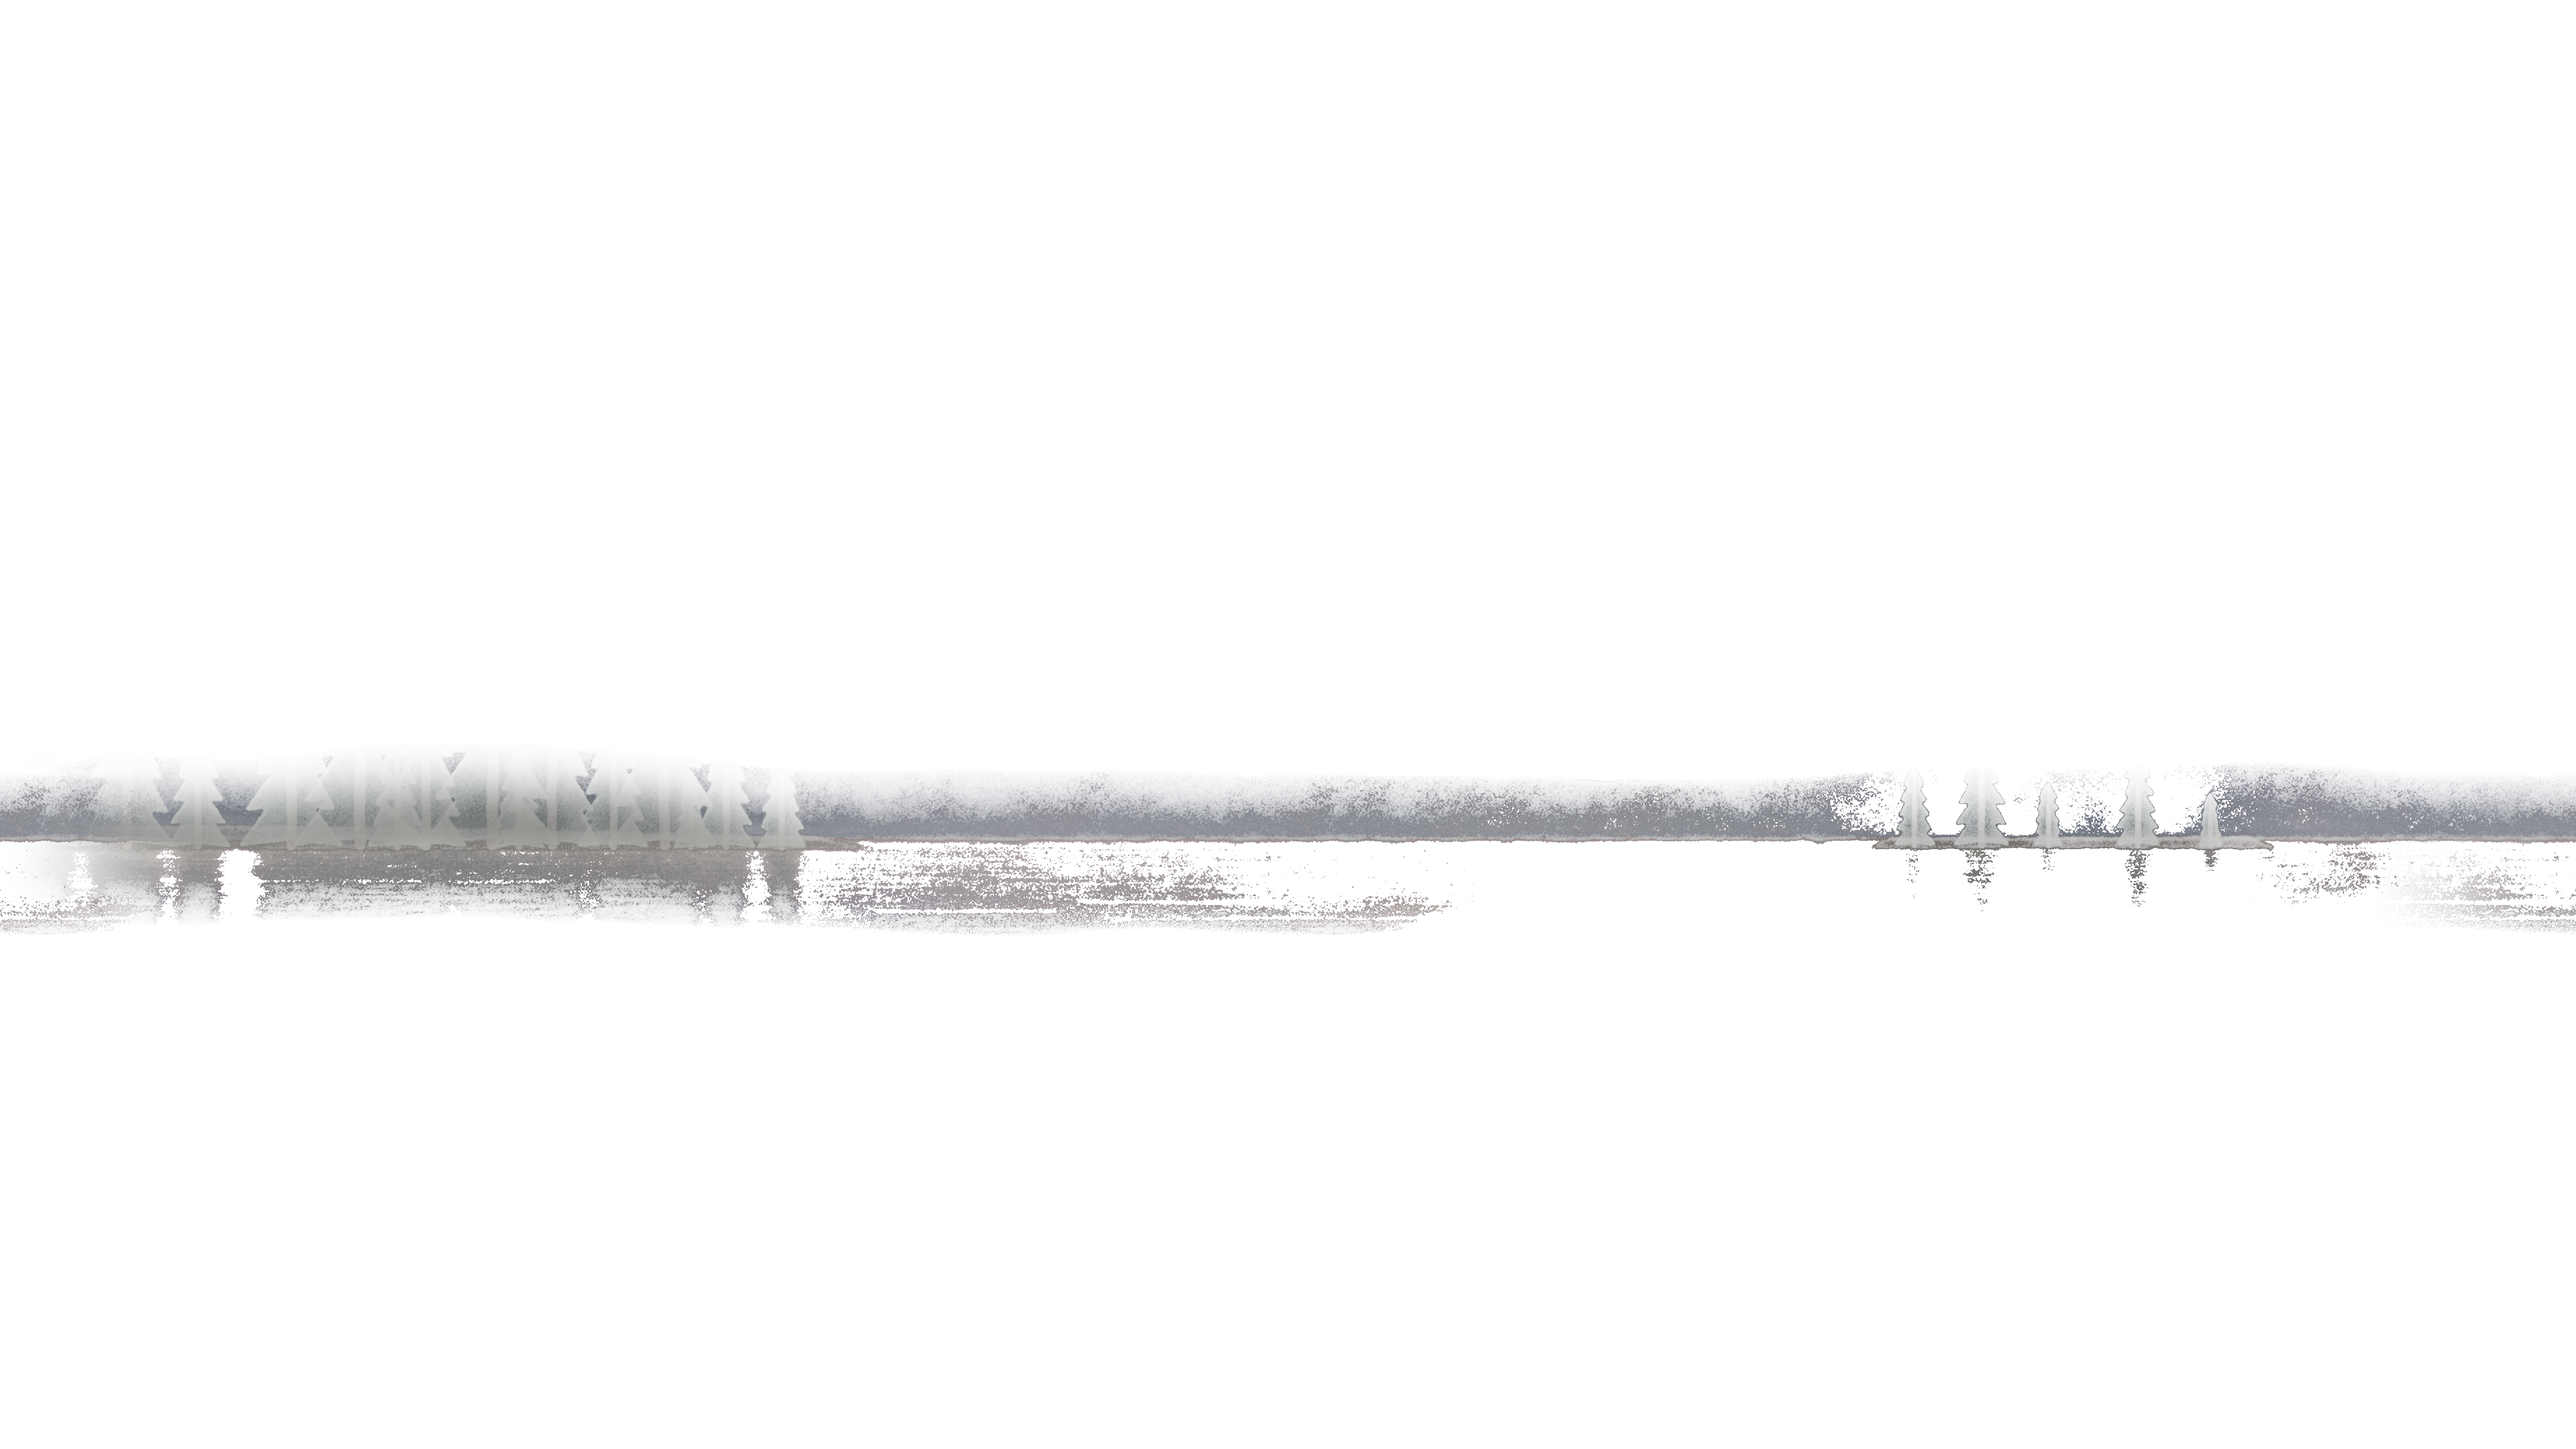
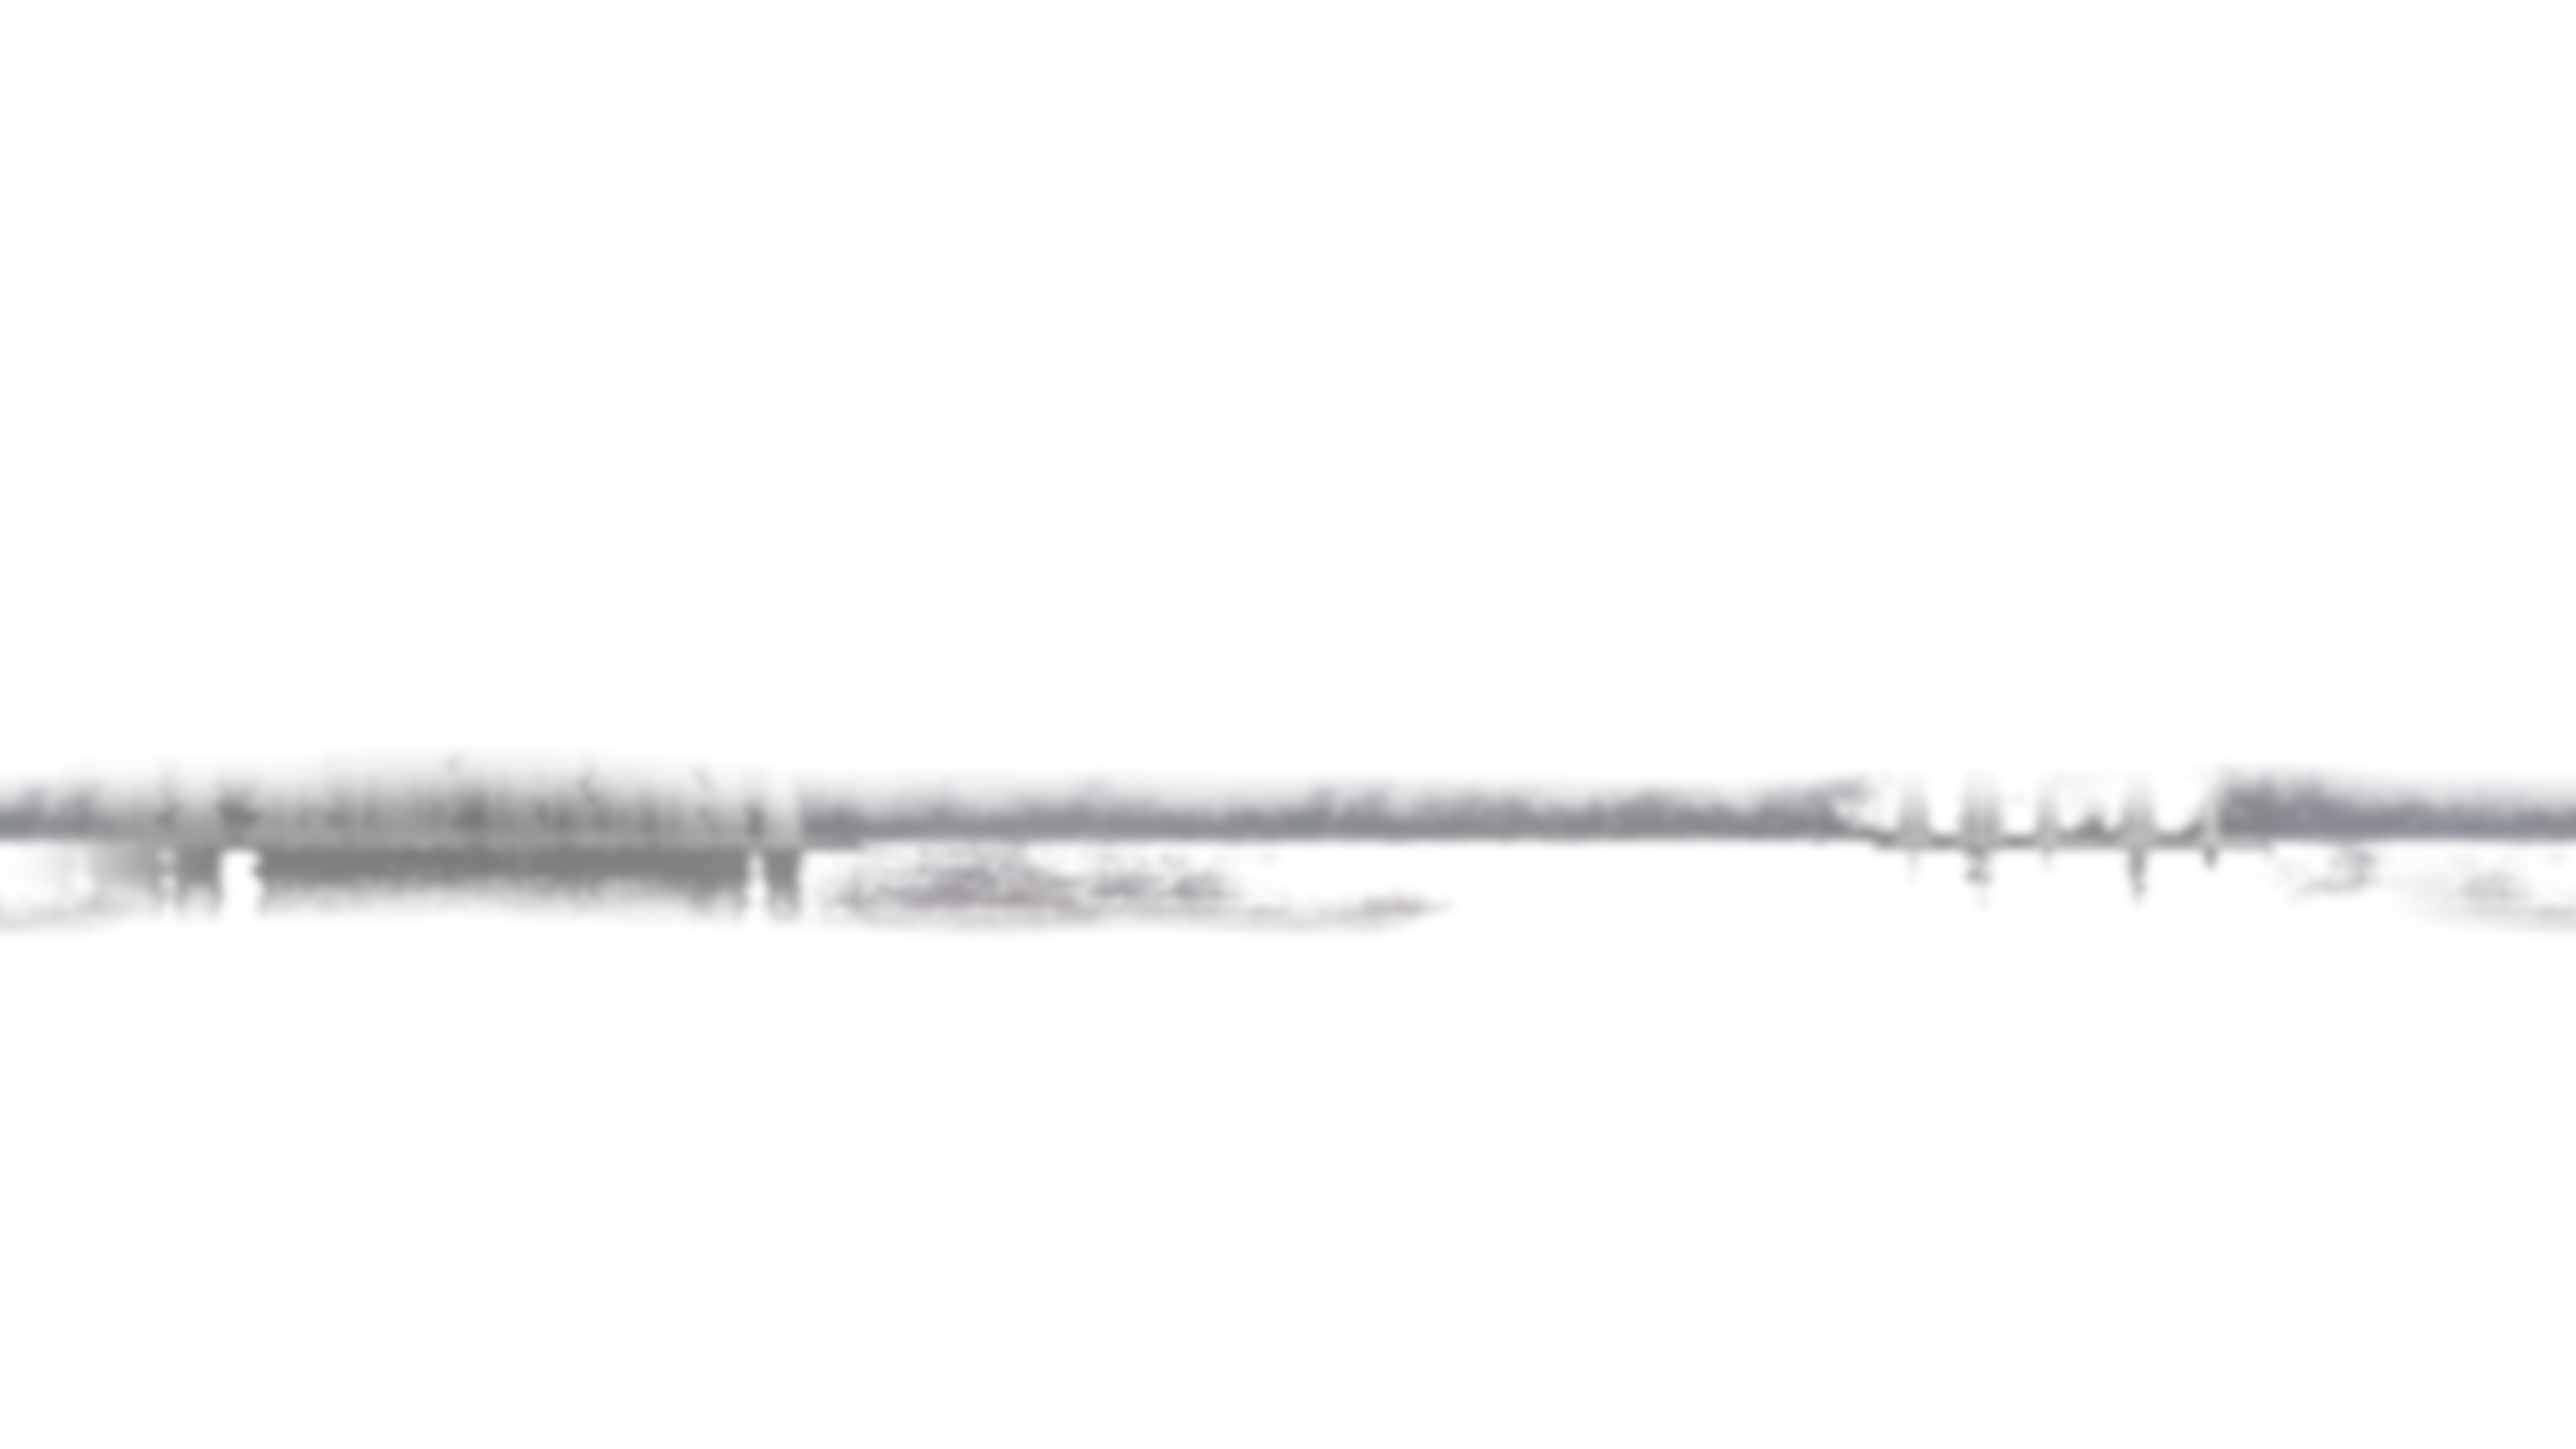
Phase 2: smooth-veil mist matte for paper styles, exact matte for grain-free styles; slower watercolour mist
Claude-Session: https://claude.ai/code/session_0187TScAsibyUB6sRnUNkhqD

Changed region(s): [[0.0625, 0.5312, 1.0, 0.6562], [0.0, 0.625, 0.0312, 0.6562], [0.0, 0.5625, 0.0312, 0.5938]]

diff --git a/painted-styles/remotion/src/gl/scene.ts b/painted-styles/remotion/src/gl/scene.ts
@@ -45,7 +45,7 @@ const BASE: Motion = {
   boatAngle: 0.018, boatLift: 5, boatCycles: 4, birdsWrap: true, fx: 0,
 };
 export const MOTION: Record<string, Motion> = {
-  watercolour: BASE,
+  watercolour: { ...BASE, mistDrift: 240 },
   artdeco: { ...BASE, waterAmp: 6 },
   linocut: { ...BASE, waterAmp: 4 },
   // a leaded window is one flat panel: keep parallax small and let light do the work

diff --git a/painted-styles/scripts/layers.py b/painted-styles/scripts/layers.py
@@ -52,7 +52,10 @@ def extract_opaque(B, C):
     return np.clip(F, 0, 1), a
 
 
-def extract_key(B, C, sigma=60):
+SMOOTH_KEY = {'watercolour', 'inkwash'}   # mist painted on textured paper: smooth veil instead of exact matte
+
+
+def extract_key(B, C, sigma=60, smooth=True):
     """C = B*(1-a) + K*a with a smooth key colour K(x, y): start from one global key, then refine K
     as an alpha-weighted local average of the un-mixed colour, and re-solve a against it."""
     from core import blur
@@ -71,11 +74,16 @@ def extract_key(B, C, sigma=60):
     v = K - B
     a = np.clip((d * v).sum(-1) / np.maximum((v * v).sum(-1), 1e-4), 0, 1)
     a = np.where(D < 0.004, 0, a)
-    # whatever the smooth key misses goes back into the colour, so the layer is exact at rest;
-    # below a = 0.15 the correction is faded out to keep background structure out of the mist
-    r = C - (B * (1 - a[..., None]) + K * a[..., None])
-    w = smoothstep(0.05, 0.15, a)[..., None]
-    F = K + w * r / np.maximum(a, 0.05)[..., None]
+    if smooth:
+        # paper grain makes a per-pixel alpha speckle; mist is a soft veil, so smooth it (about 8 px at 4K)
+        a = np.clip(blur(a, 8), 0, 1)
+        a = np.where(a < 0.01, 0, a)
+        F = K
+    else:
+        # grain-free media: put what the smooth key misses back into the colour, exact at rest
+        r = C - (B * (1 - a[..., None]) + K * a[..., None])
+        w = smoothstep(0.05, 0.15, a)[..., None]
+        F = K + w * r / np.maximum(a, 0.05)[..., None]
     return np.clip(F, 0, 1), a
 
 
@@ -133,7 +141,7 @@ def extract(key, G, cache, outdir, boat_y_design=806):
         if prev is None:
             F, a = C, np.ones(C.shape[:2], np.float32)
         elif g in KEY_GROUPS.get(key, {'mist'}):
-            F, a = extract_key(prev, C)
+            F, a = extract_key(prev, C, smooth=key in SMOOTH_KEY)
         else:
             F, a = extract_opaque(prev, C)
         if g in ('mist', 'clouds'):
